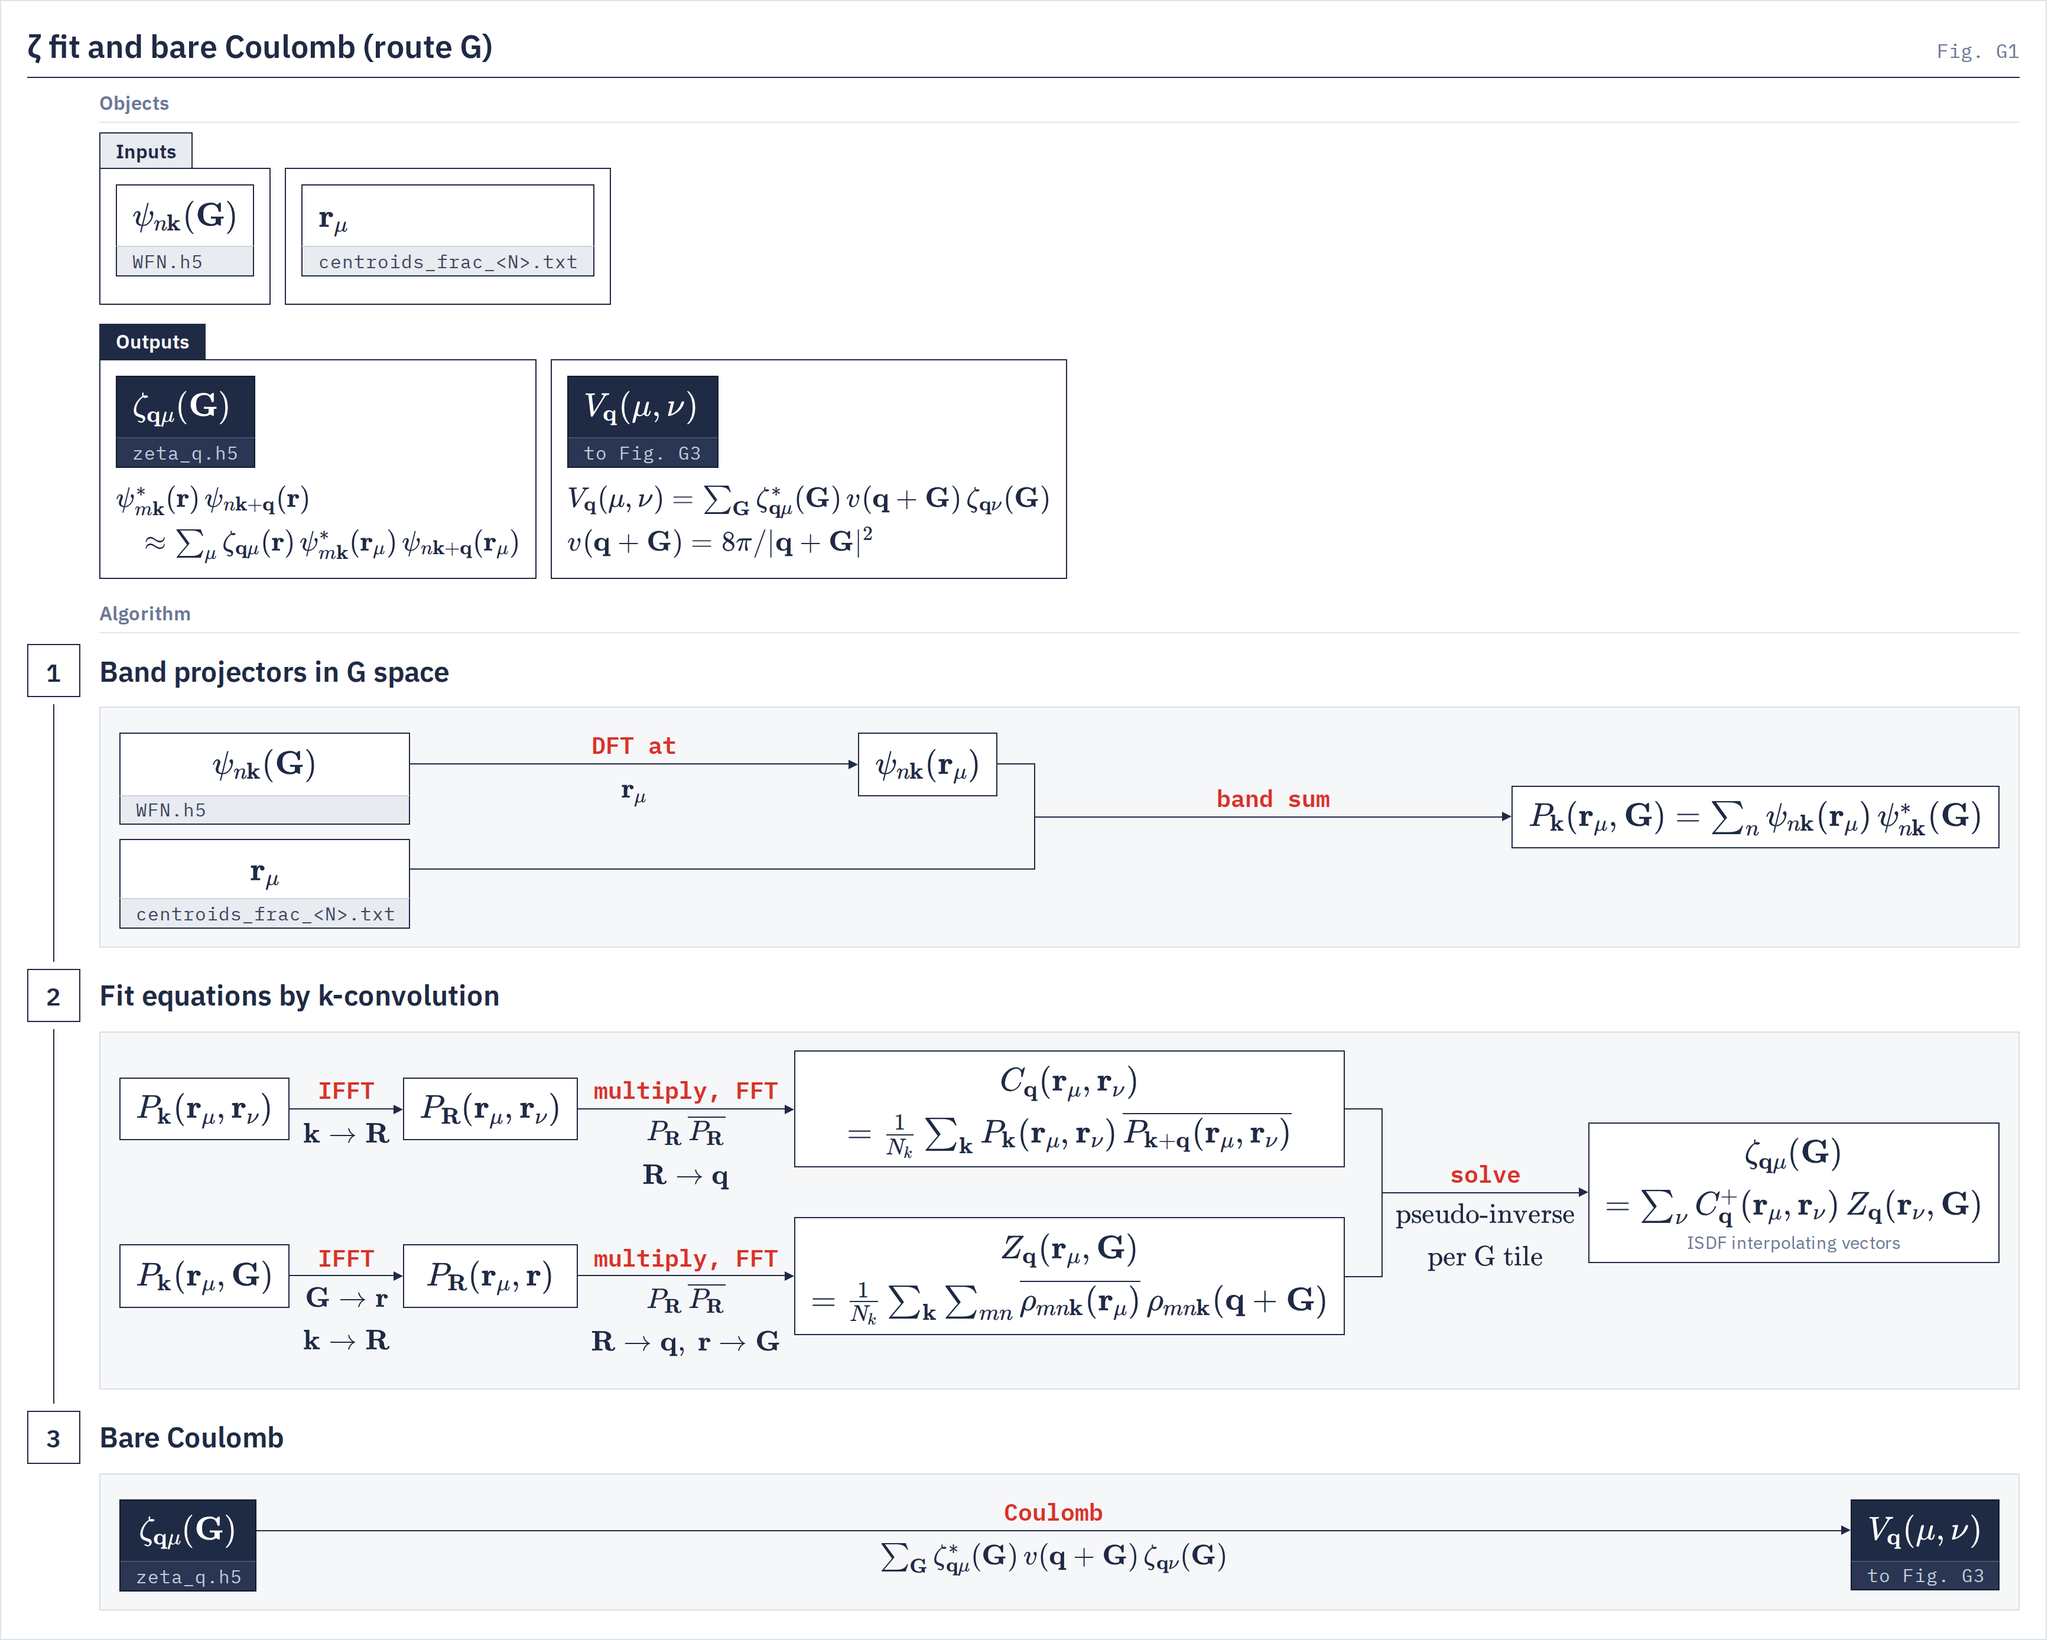
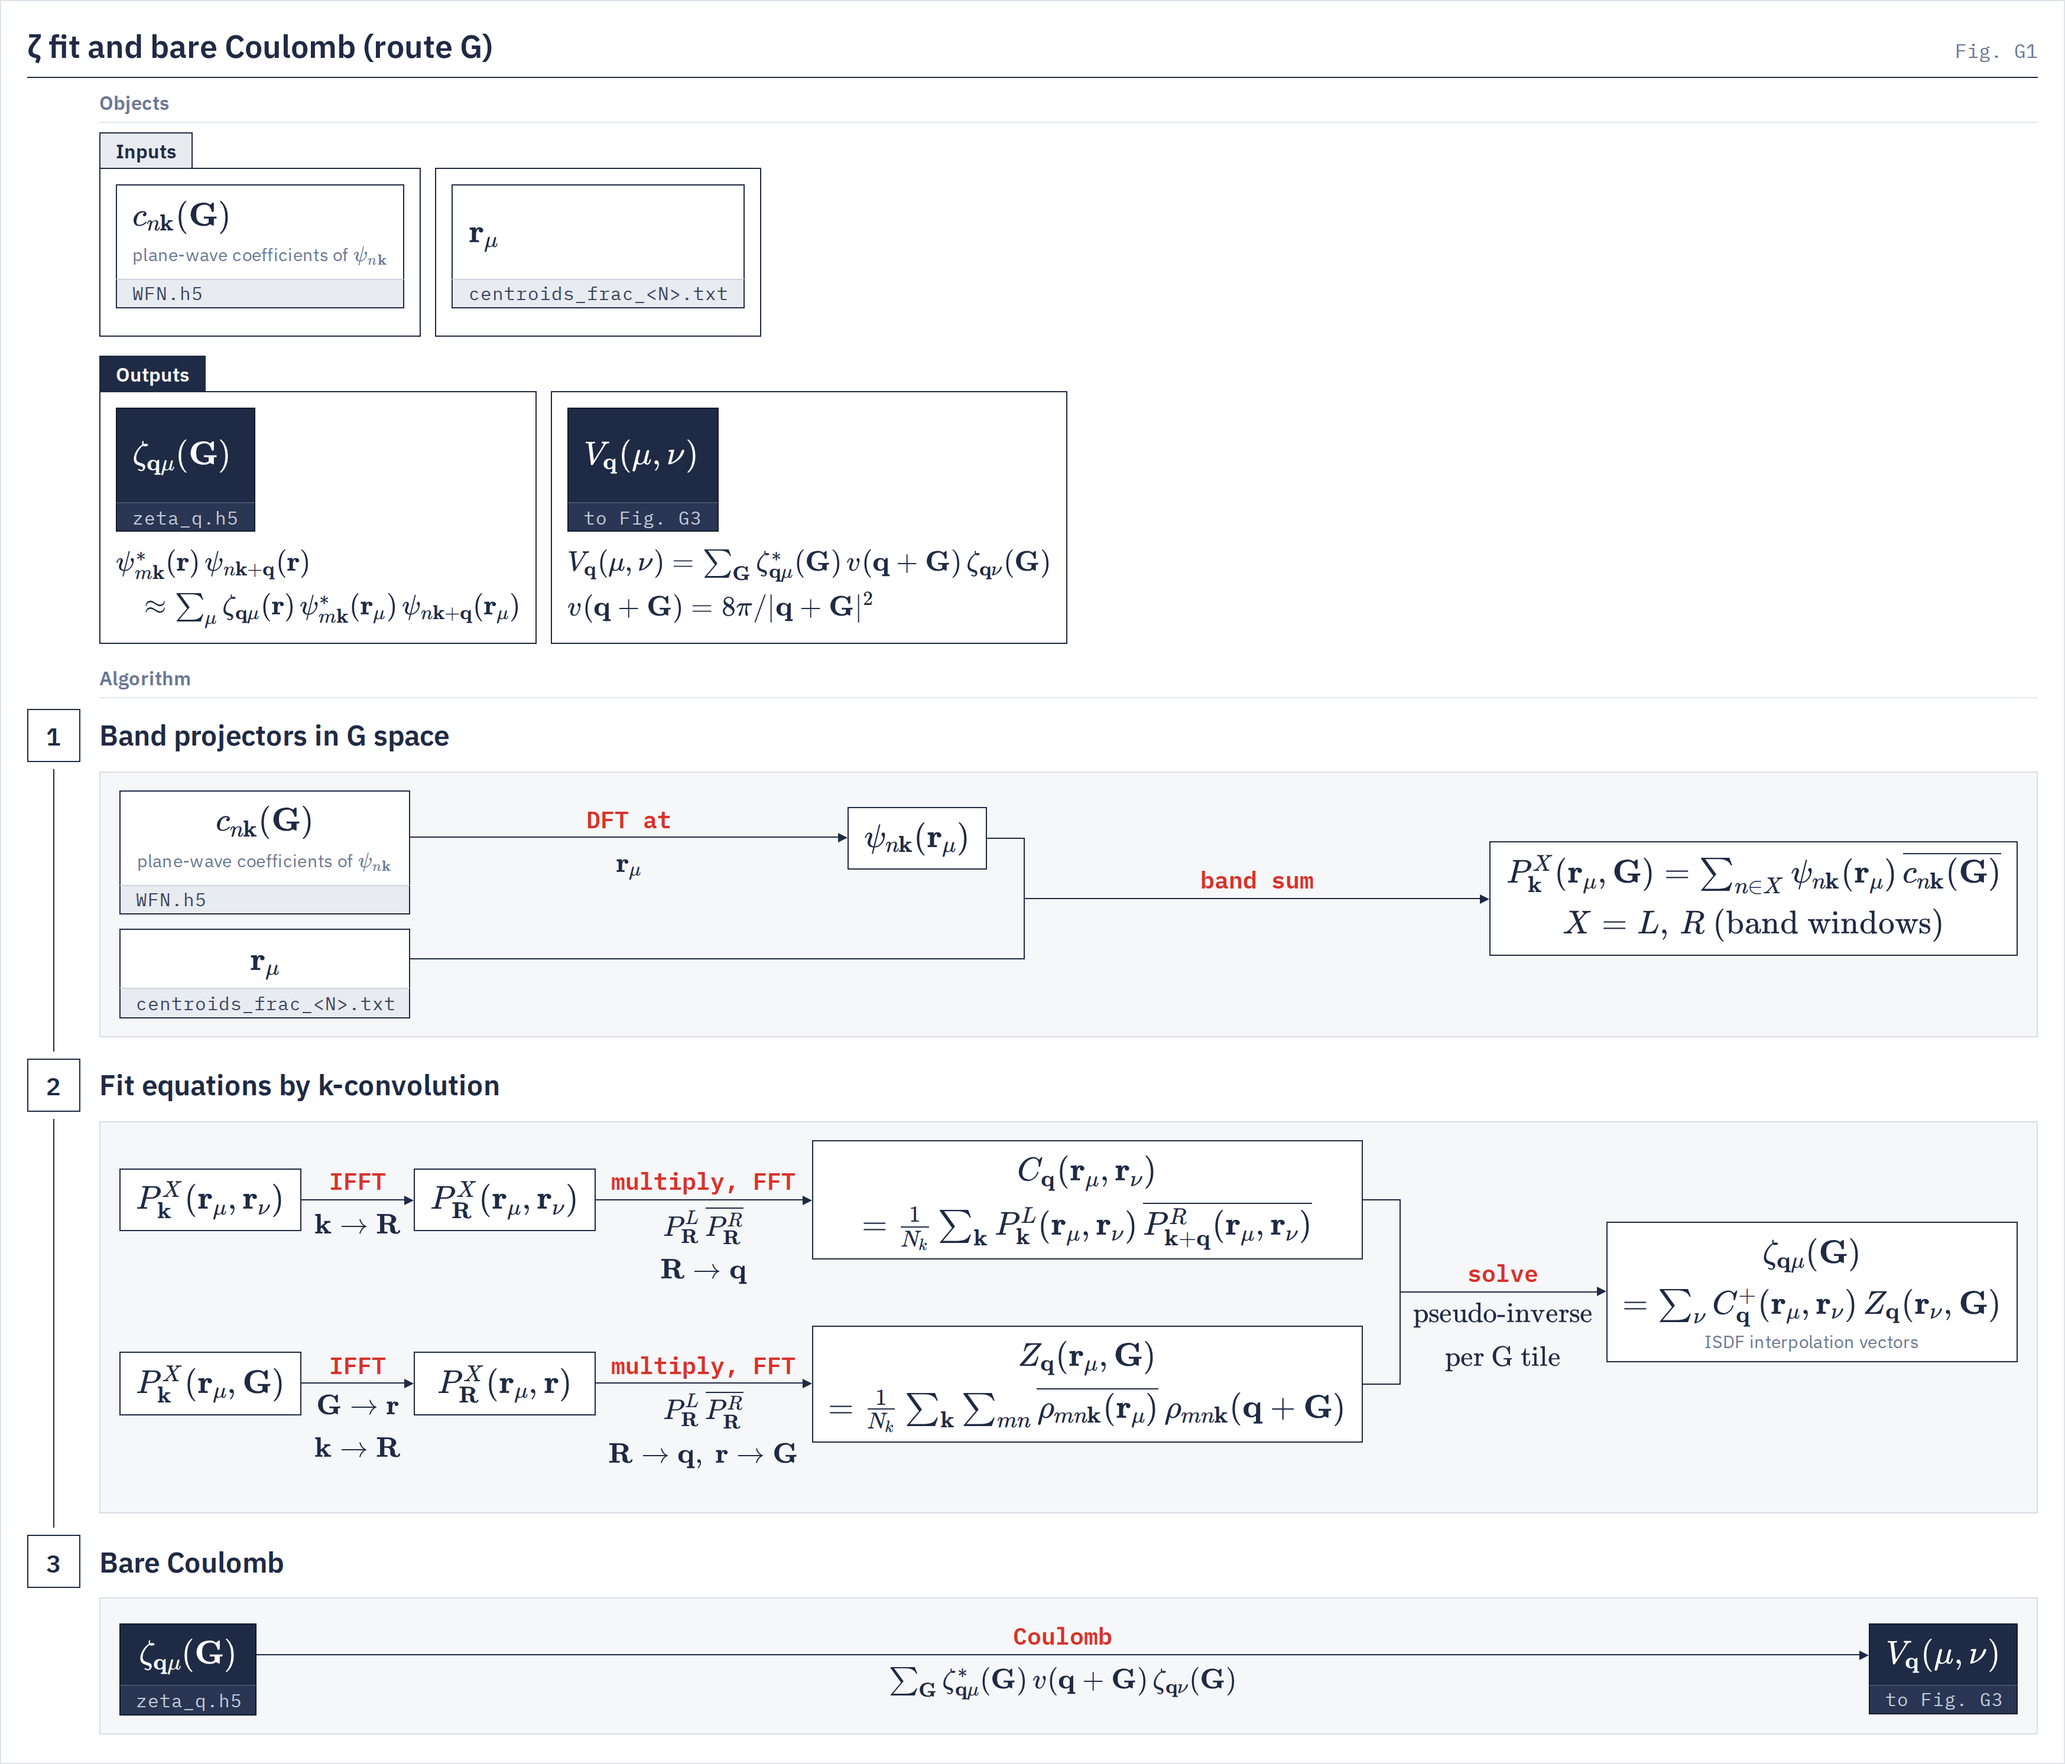
manual: sync 2026-10-21 03:43

diff --git a/manual/docs/drivers/bse/theory.md b/manual/docs/drivers/bse/theory.md
@@ -71,13 +71,13 @@ V_{\bq=0}(\mu,\nu) \mathrel{+}= \frac{V^{\mathrm{head}}}{\Omega_{\mathrm{cell}}}
 W_{\bq=0}(\mu,\nu;0) \mathrel{+}= \frac{W^{\mathrm{head}}}{\Omega_{\mathrm{cell}}}\, g_0^*(\mu)\, g_0(\nu) \tag{1.4}
 $$
 
-On a densifying run the $W$ head is held back. Fourier interpolation through $\bR$ is exact on the coarse points and accurate where $W$ is analytic in $\bq$, but the head ($\sim v/\epsilon \sim 1/q^2$ in bulk) and a slab's $G_z$ channels are not. So $W = W^{\mathrm{SR}} + W^{\mathrm{LR}}$: the long-range part is an analytic model known at any $\bq$, and only the smooth remainder is interpolated:
+On a densifying run the $W$ head is held back. Fourier interpolation through $\bR$ is exact on the coarse points and accurate where $W$ is analytic in $\bq$, but the head ($\sim 1/q^2$ in bulk) and the $G_z \neq 0$ plane waves of a slab are not. We therefore split $W = W^{\mathrm{SR}} + W^{\mathrm{LR}}$. The long-range part is known at any $\bq$, and only the smooth short-range part is interpolated,
 
 $$
-W_{\bq_{\mathrm{fi}}}(\mu,\nu;0) = \underbrace{\mathrm{FFT}_{\bR \to \bq_{\mathrm{fi}}}\,\mathrm{IFFT}_{\bq_{\mathrm{co}} \to \bR}\big[W_{\bq_{\mathrm{co}}} - W^{\mathrm{LR}}_{\bq_{\mathrm{co}}}\big]}_{W^{\mathrm{SR}}_{\bq_{\mathrm{fi}}}} + W^{\mathrm{LR}}_{\bq_{\mathrm{fi}}} \tag{1.5}
+W_{\bq_{\mathrm{fi}}}(\mu,\nu;0) = \underbrace{\mathrm{FFT}_{\bR \to \bq_{\mathrm{fi}}}\,\mathrm{IFFT}_{\bq_{\mathrm{co}} \to \bR}\big[W_{\bq_{\mathrm{co}}} - W^{\mathrm{LR}}_{\bq_{\mathrm{co}}}\big]}_{[W^{\mathrm{SR}}]^{\mathrm{interp}}_{\bq_{\mathrm{fi}}}} + W^{\mathrm{LR}}_{\bq_{\mathrm{fi}}} \tag{1.5}
 $$
 
-With `w_head_densify = c1` (default) the model is the head, $W^{\mathrm{LR}}_\bq = h(\bq)\, g_0^*(\mu) g_0(\nu)/\Omega_{\mathrm{cell}}$ with $h(\bq) = W^{\mathrm{head}}\,(v/\epsilon)(\bq)/\langle v/\epsilon\rangle_{\Gamma_c}$ and $\epsilon(\bq) = 1 - v(\bq)\,\bq\cdot S\cdot\bq$ inside the coarse Γ cell $\Gamma_c$, zero outside. With `srlr` it is $w(|\bq|)\,\tilde\zeta^\dagger_\bq[v^{-1} - P_\bq]^{-1}\tilde\zeta_\bq/\Omega_{\mathrm{cell}}$, built from the ISDF coefficients $\zeta_{\bq\mu}(\bG)$ at the few plane waves nearest the origin, dressed by the short-range screening and fitted from the bundle's `W0_lr`, and Γ keeps the `c1` head. Both models, the channels and the window are derived on [Short- and long-range W](../../theory/w-range-splitting.md). Without `bse_k_grid` only the last transform, $W_\bR = \mathrm{IFFT}_{\bq\to\bR}W_\bq$, runs.
+With `w_head_densify = c1` (the default) the long-range part is the head alone, $W^{\mathrm{LR}}_\bq = h(\bq)\, g_0^*(\mu)\, g_0(\nu)/\Omega_{\mathrm{cell}}$, with $h(\bq) = \bar W_{00}\,s(\bq)/\langle s\rangle_{\Gamma_c}$ and $s(\bq) = v(\bq)/\big(1 - v(\bq)\,\bq\cdot S\cdot\bq\big)$ inside the coarse Γ cell $\Gamma_c$ and zero outside. Here $\bar W_{00}$ is the $W^{\mathrm{head}}$ of (1.4). With `srlr` it is $w(|\bq|)\,\tilde\zeta^\dagger_\bq D_\bq\tilde\zeta_\bq/\Omega_{\mathrm{cell}}$ with $D_\bq = [v_L^{-1} - P_\bq]^{-1}$, built from the ISDF coefficients $\zeta_{\bq\mu}(\bG_L)$ at the long-range plane waves $\bG_L$, dressed by the short-range local fields and fitted from the bundle's `W0_lr`. Γ keeps the `c1` head. Both routes, the plane waves $\bG_L$ and the window are derived on [Short- and long-range W](../../theory/w-range-splitting.md). Without `bse_k_grid` only the last transform, $W_\bR = \mathrm{IFFT}_{\bq\to\bR}W_\bq$, runs.
 
 <figure class="flowchart" markdown>
 [![Static W for the BSE](../../assets/figures/b4.png)](../../assets/figures/b4.png)

diff --git a/manual/docs/drivers/bse/index.md b/manual/docs/drivers/bse/index.md
@@ -37,7 +37,7 @@ Solver
 <div class="stages" markdown>
 
 1. **Optional interpolation of bands and interactions to the BSE k-grid**
-   Read $\psi_{n\bk}(\br_\mu)$, $E^{\mathrm{QP}}_{n\bk}$, $V_\bq(\mu,\nu)$ and $W_\bq(\mu,\nu;0)$ from the bundle and add the $\bq \to 0$ head. Under `bse_k_grid` the bands are carried to the fine grid $\bk_{\mathrm{fi}}$ by H-transform interpolation, and $W$ is split into a short-range part, smooth in $\bq$ and Fourier-interpolated, and a long-range part carried by the plane-wave channels $\bq+\bG_a\to0$: their dressed form factors and polarizability are fitted in $\bq$, screened, switched off smoothly inside the zone, and evaluated at every fine $\bq$ (`w_head_densify = srlr`; [Theory](theory.md)).
+   Read $\psi_{n\bk}(\br_\mu)$, $E^{\mathrm{QP}}_{n\bk}$, $V_\bq(\mu,\nu)$ and $W_\bq(\mu,\nu;0)$ from the bundle and add the $\bq \to 0$ head. Under `bse_k_grid` the bands are carried to the fine grid $\bk_{\mathrm{fi}}$ by H-transform interpolation, and $W$ is split into a short-range part, smooth in $\bq$ and Fourier-interpolated, and a long-range part on the long-range plane waves $\bG_L$, the vectors at which $\bq+\bG\to0$. Their dressed coefficients $\tilde\zeta_{\bq\mu}(\bG_L)$ and polarizability $P_\bq$ are fitted in $\bq$, screened, switched off smoothly inside the zone, and evaluated at every fine $\bq$ (`w_head_densify = srlr`; [Theory](theory.md)).
 2. **Matrix-free product $HX$**
    The Hamiltonian, Tamm–Dancoff or full ([below](#kernel)), is never stored. Each trial vector gets the diagonal $E^{\mathrm{QP}}_{c\bk} - E^{\mathrm{QP}}_{v\bk}$, the exchange term through $V_{\bq=0}$ and the direct term as a k-convolution with $W$.
 3. **Eigensolve**
@@ -49,7 +49,7 @@ Solver
 
 <figure class="flowchart" markdown>
 [![BSE driver overview](../../assets/figures/b1.png)](../../assets/figures/b1.png)
-<figcaption><strong>Fig. B1.</strong> The production route (<code>--tda --bse</code>) in four stages: the bands optionally carried to the BSE k-grid by the H-transform; $W$ optionally carried there in two branches, the short-range part Fourier-interpolated through $\bR$ and the long-range part built on G-space plane-wave channels ($\bq+\bG_a\to0$) fitted in $\bq$, screened and windowed, then added and assembled into the Tamm–Dancoff Hamiltonian; the matrix-free product $HX$, with the exchange (top) and direct (bottom) branches; the eigensolve and the spectrum. The Objects cards name the file each quantity comes from or goes to.</figcaption>
+<figcaption><strong>Fig. B1.</strong> The production route (<code>--tda --bse</code>) in four stages: the bands optionally carried to the BSE k-grid by the H-transform; $W$ optionally carried there in two branches, the short-range part Fourier-interpolated through $\bR$ and the long-range part built on the long-range plane waves $\bG_L$, fitted in $\bq$, screened and windowed, then added and assembled into the Tamm–Dancoff Hamiltonian; the matrix-free product $HX$, with the exchange (top) and direct (bottom) branches; the eigensolve and the spectrum. The Objects cards name the file each quantity comes from or goes to.</figcaption>
 </figure>
 
 !!! note

diff --git a/manual/docs/theory/shared-pole-w.md b/manual/docs/theory/shared-pole-w.md
@@ -256,7 +256,7 @@ with the upper sign for $G^>$ windows and the lower for $G^<$. The synthesis cos
 
 <figure class="flowchart" markdown>
 [![Shared-pole W in the self-energy](../assets/figures/g9b.png)](../assets/figures/g9b.png)
-<figcaption><strong>Fig. G9b.</strong> Σ from the shared-pole model. For each product window and time node $t_\ell$, $W^c_\bq(t_\ell)$ is synthesized from the window's poles, multiplied by $G^{\gtrless}$ in $\bR$ and folded into frequency.</figcaption>
+<figcaption><strong>Fig. G9b.</strong> Σ from the shared-pole model. For each product window and time node $t_\ell$, $W^c_\bq(\pm t_\ell)$ is synthesized from the window's poles and multiplied by $G^{\gtrless}$ in $\bR$, and Fig. G4 folds the result into frequency; stage 3 evaluates the static $W_\bq(0)$ the BSE reads.</figcaption>
 </figure>
 
 ### <span class="n">6.2</span> χ⁰ at the supports {: #bank-times }
@@ -299,7 +299,7 @@ The construction runs once per irreducible $\bq$ after the ISDF fit and $V_\bq$,
 
 <figure class="flowchart" markdown>
 [![Shared-pole screened interaction](../assets/figures/g9.png)](../assets/figures/g9.png)
-<figcaption><strong>Fig. G9.</strong> Stage 1 samples $W^c$ and its derivative at the support frequencies: a line above the real axis at equal quantiles of the square root of the crossing density, and a log-spaced imaginary ladder, the same $z_a$ for every $\bq$. Stage 2 keeps the action of $W^c$ on a few probe directions per support, and of the exact moments on the leading directions of $M_1$, and assembles the Loewner pencil $(\mathbb H,\mathbb G)$ in $z^2$. Stage 3 diagonalizes the pencil, whose Ritz pairs are the poles $\Omega_{j\bq}$ and factor vectors $b_{j\bq}(\mu)$ that go to `model.h5`.</figcaption>
+<figcaption><strong>Fig. G9.</strong> Stage 1 samples $W^c$ and its derivative at the support frequencies: a line above the real axis at equal quantiles of the square root of the crossing density, and a log-spaced imaginary ladder, the same $z_a$ for every $\bq$. Stage 2 keeps the action of $W^c$ on a few probe directions per support, and of the exact moments on the leading directions of $M_1$, and assembles the Loewner pencil $(\mathbb H,\mathbb G)$ in $s=z^2$. Stage 3 diagonalizes the pencil, whose Ritz pairs are the poles $\Omega_{j\bq}$ and factor vectors $b_{j\bq}(\mu)$ that go to `model.h5`.</figcaption>
 </figure>
 
 ### <span class="n">7.1</span> Line supports {: #sup-line }

diff --git a/manual/docs/theory/isdf.md b/manual/docs/theory/isdf.md
@@ -42,7 +42,7 @@ $\zeta$ is the least-squares solution of Eq. (1.1) over every $\bk$ and every pa
 
 <figure class="flowchart" markdown>
 [![ζ fit and bare Coulomb (route G)](../assets/figures/g1.png)](../assets/figures/g1.png)
-<figcaption><strong>Fig. G1.</strong> The ζ fit and the bare Coulomb matrix. Stage 1 evaluates $\psi$ at the centroids from its plane-wave coefficients and forms the band projector $P_\bk(\br_\mu,\bG)$; stage 2 builds the Gram $C_\bq$ and the right-hand side $Z_\bq(\br_\mu,\bG)$ by k-convolution and solves for $\zeta_{\bq\mu}(\bG)$ one G tile at a time; stage 3 contracts $\zeta(\bG)$ with $v(\bq+\bG)$. The Objects block gives the implicit definition of each output.</figcaption>
+<figcaption><strong>Fig. G1.</strong> The ζ fit and the bare Coulomb matrix. Stage 1 evaluates $\psi$ at the centroids from its plane-wave coefficients and forms the band projectors $P^X_\bk(\br_\mu,\bG)$ of the two windows $X=L,R$; stage 2 builds the Gram $C_\bq$ and the right-hand side $Z_\bq(\br_\mu,\bG)$ by k-convolution and solves for $\zeta_{\bq\mu}(\bG)$ one G tile at a time; stage 3 contracts $\zeta(\bG)$ with $v(\bq+\bG)$. The Objects block gives the implicit definition of each output.</figcaption>
 </figure>
 
 ### <span class="n">2.1</span> Normal equations {: #isdf-normal }

diff --git a/manual/docs/drivers/exciton-bands/index.md b/manual/docs/drivers/exciton-bands/index.md
@@ -33,7 +33,7 @@ Exchange at $\bQ$
 
 <figure class="flowchart" markdown>
 [![Exciton bands at finite momentum](../../assets/figures/x1.png)](../../assets/figures/x1.png)
-<figcaption><strong>Fig. X1.</strong> One run in four stages: conduction states at $\bk+\bQ$ by H-transform interpolation; the exchange $V_\bQ$; the static $W$, optionally interpolated in two branches as in Fig. B1, the short-range part Fourier-interpolated through $\bR$ and the long-range part built on G-space plane-wave channels fitted in $\bq$, screened and windowed; then the matrix-free product $H_\bQ X$ (exchange row above, direct row below), diagonalized once per path point.</figcaption>
+<figcaption><strong>Fig. X1.</strong> One run in four stages: conduction states at $\bk+\bQ$ by H-transform interpolation; the exchange $V_\bQ$; the static $W$, optionally interpolated in two branches as in Fig. B1, the short-range part Fourier-interpolated through $\bR$ and the long-range part built on the long-range plane waves $\bG_L$, fitted in $\bq$, screened and windowed; then the matrix-free product $H_\bQ X$ (exchange row above, direct row below), diagonalized once per path point.</figcaption>
 </figure>
 
 <div class="stages" markdown>
